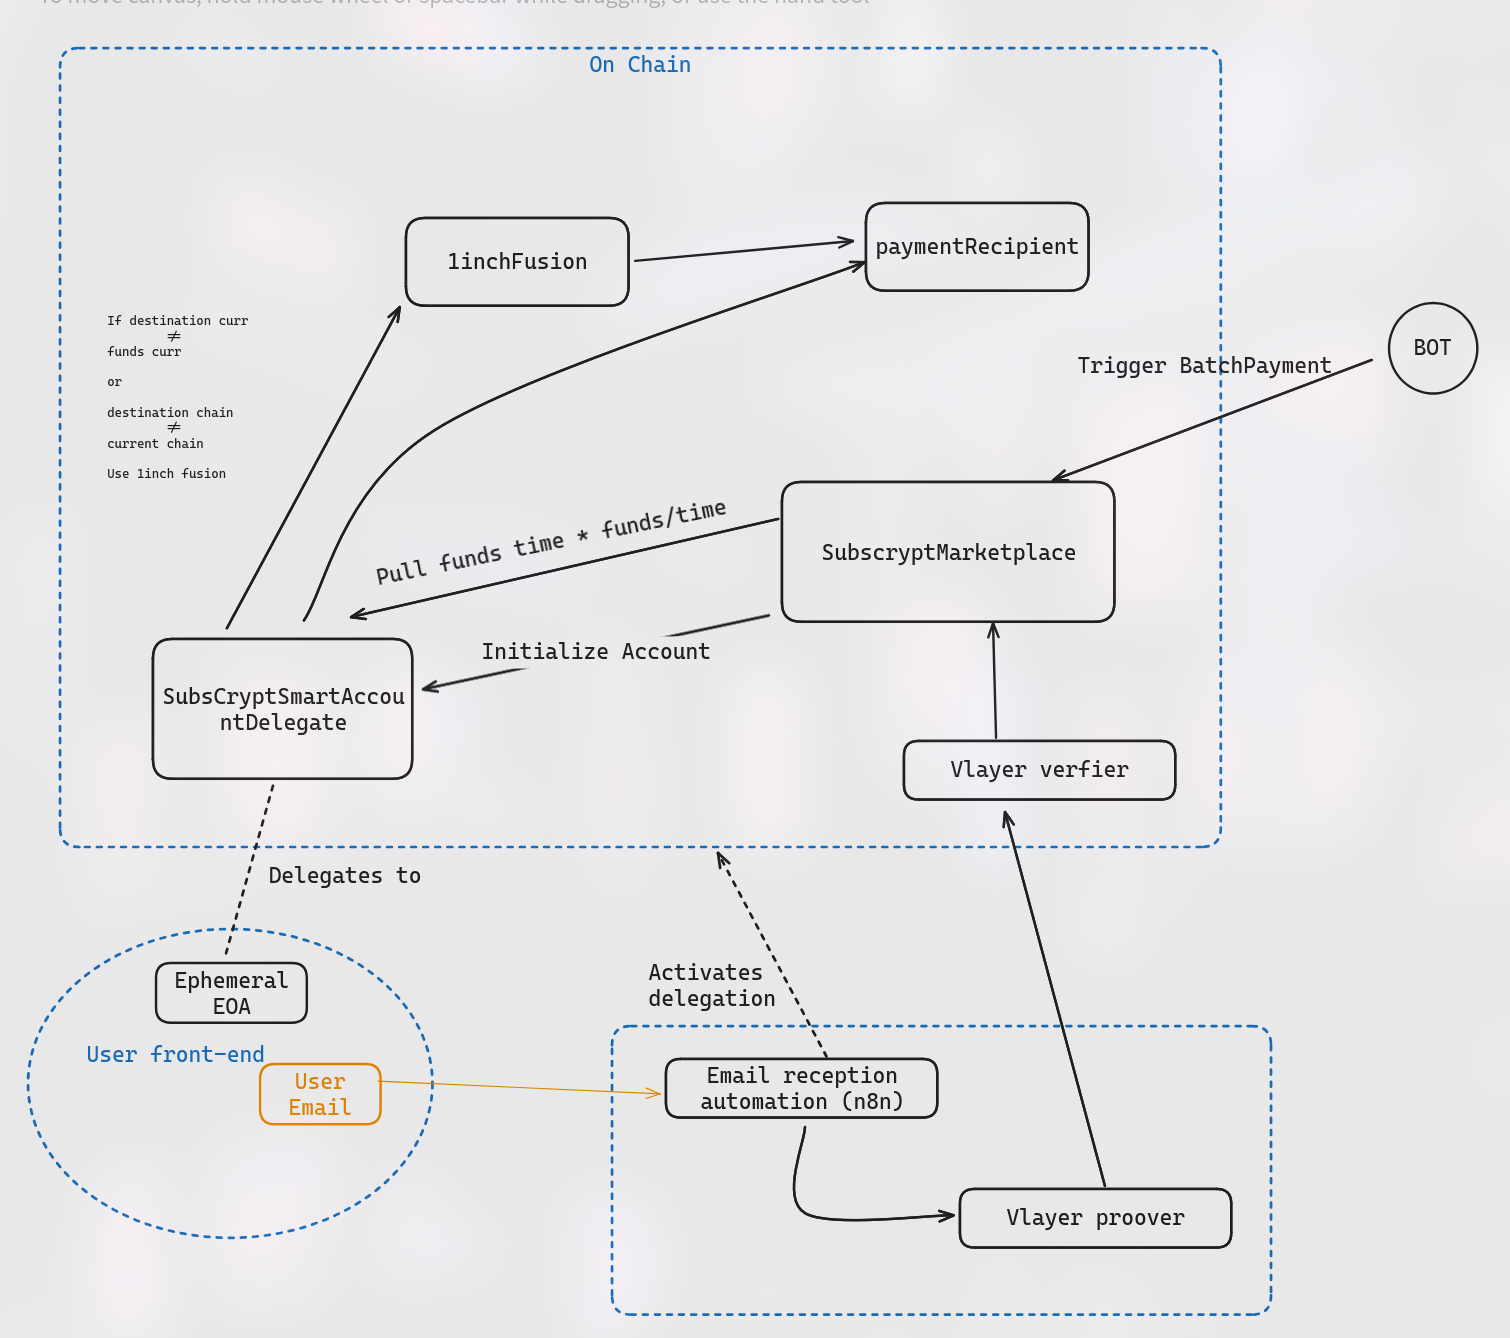
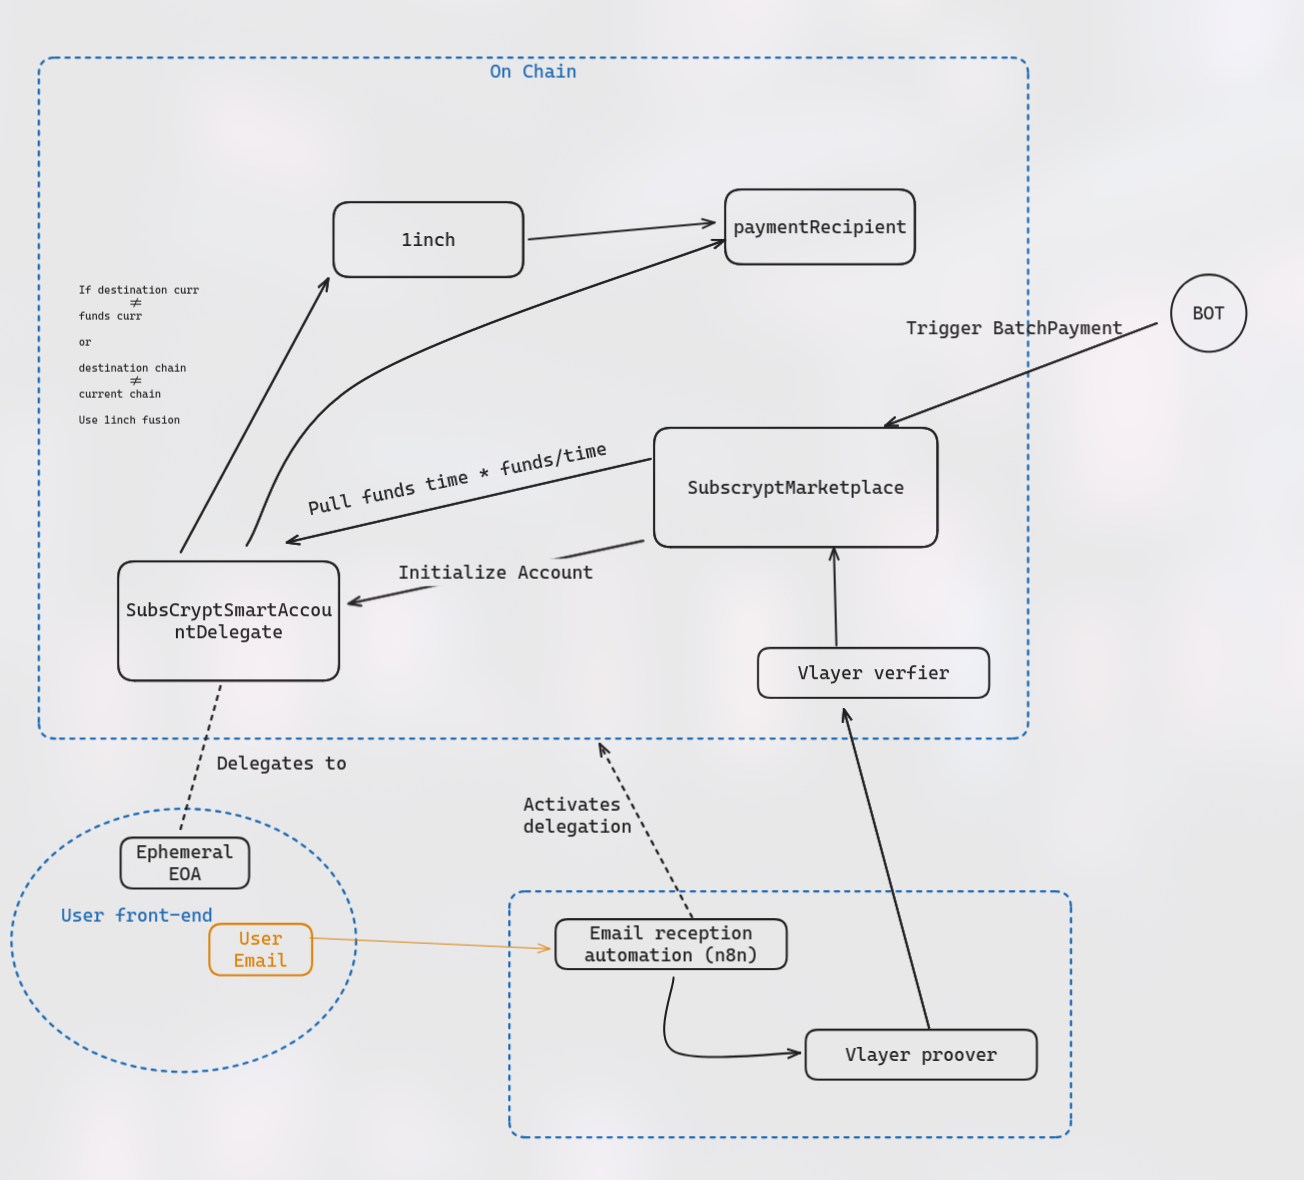
fdsf

diff --git a/README.md b/README.md
@@ -32,9 +32,8 @@ The service provider can pull the funds whenever he wants since we implement a s
 ### Auto-executable Payments with fee-incentivized triggers
 In order to incentivize the execution of the payments semi-automatically, a fee auction is implemented to incentivize anyone to pay for the gas of payment triggering transactions, obtaining a fee percentage in exchange.
 
-### Multi-currency and Multi-chain Payments with 1inch Fusion+
-The service provider is free to trigger a bridge and/or swap atomically when pulling funds from the EOA with built-in integration with **1inch Fusion+**.
-
+### Multi-Currency Payments via Atomic 1 Inch Unoswap
+We leverage atomic 1 Inch Unoswap swaps so users can pay in their preferred currency. The swap executes securely in a single transaction, converting the funds seamlessly.
 
 ## App Flow
 
